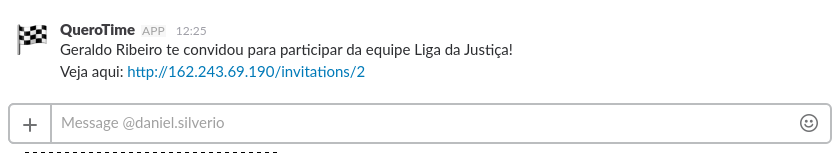
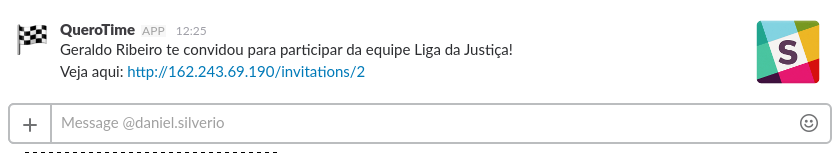
slide slack fix.

Changed region(s): [[0.8998, 0.1307, 0.9928, 0.549]]

diff --git a/public/slides/beige.html b/public/slides/beige.html
@@ -45,7 +45,7 @@
 </section><section id="como-montar" class="slide level2">
 <h1>Como montar?</h1>
 <ul>
-<li>O acesso é via Slack! <embed src="https://ms-vsts.gallerycdn.vsassets.io/extensions/ms-vsts/vss-services-slack/1.0.1/1474455147825/Microsoft.VisualStudio.Services.Icons.Default" /></li>
+<li>Autenticação via Slack</li>
 <li>Visualizar times criados</li>
 <li>Convidar interessados para o seu time <img src="./images/slack_invitation.png" alt="img" /></li>
 </ul>
@@ -82,7 +82,7 @@
 </ul>
 </section><section id="section" class="slide level2">
 <h1></h1>
-<p>AjudaEu agradece toda ajuda que teve.</p>
+<p>AjudaEu agradece toda ajuda que teve. Obrigado</p>
 </section><section id="bike" class="slide level2" data-background="./images/bike.jpg">
 <h1>Bike</h1>
 </section><section id="bonecos" class="slide level2" data-background="./images/bonecos.jpg">

diff --git a/public/slides/black.html b/public/slides/black.html
@@ -45,7 +45,7 @@
 </section><section id="como-montar" class="slide level2">
 <h1>Como montar?</h1>
 <ul>
-<li>O acesso é via Slack! <embed src="https://ms-vsts.gallerycdn.vsassets.io/extensions/ms-vsts/vss-services-slack/1.0.1/1474455147825/Microsoft.VisualStudio.Services.Icons.Default" /></li>
+<li>Autenticação via Slack</li>
 <li>Visualizar times criados</li>
 <li>Convidar interessados para o seu time <img src="./images/slack_invitation.png" alt="img" /></li>
 </ul>
@@ -82,7 +82,7 @@
 </ul>
 </section><section id="section" class="slide level2">
 <h1></h1>
-<p>AjudaEu agradece toda ajuda que teve.</p>
+<p>AjudaEu agradece toda ajuda que teve. Obrigado</p>
 </section><section id="bike" class="slide level2" data-background="./images/bike.jpg">
 <h1>Bike</h1>
 </section><section id="bonecos" class="slide level2" data-background="./images/bonecos.jpg">

diff --git a/public/slides/index.html b/public/slides/index.html
@@ -45,7 +45,7 @@
 </section><section id="como-montar" class="slide level2">
 <h1>Como montar?</h1>
 <ul>
-<li>O acesso é via Slack! <embed src="https://ms-vsts.gallerycdn.vsassets.io/extensions/ms-vsts/vss-services-slack/1.0.1/1474455147825/Microsoft.VisualStudio.Services.Icons.Default" /></li>
+<li>Autenticação via Slack</li>
 <li>Visualizar times criados</li>
 <li>Convidar interessados para o seu time <img src="./images/slack_invitation.png" alt="img" /></li>
 </ul>
@@ -82,7 +82,7 @@
 </ul>
 </section><section id="section" class="slide level2">
 <h1></h1>
-<p>AjudaEu agradece toda ajuda que teve.</p>
+<p>AjudaEu agradece toda ajuda que teve. Obrigado</p>
 </section><section id="bike" class="slide level2" data-background="./images/bike.jpg">
 <h1>Bike</h1>
 </section><section id="bonecos" class="slide level2" data-background="./images/bonecos.jpg">

diff --git a/public/slides/league.html b/public/slides/league.html
@@ -45,7 +45,7 @@
 </section><section id="como-montar" class="slide level2">
 <h1>Como montar?</h1>
 <ul>
-<li>O acesso é via Slack! <embed src="https://ms-vsts.gallerycdn.vsassets.io/extensions/ms-vsts/vss-services-slack/1.0.1/1474455147825/Microsoft.VisualStudio.Services.Icons.Default" /></li>
+<li>Autenticação via Slack</li>
 <li>Visualizar times criados</li>
 <li>Convidar interessados para o seu time <img src="./images/slack_invitation.png" alt="img" /></li>
 </ul>
@@ -82,7 +82,7 @@
 </ul>
 </section><section id="section" class="slide level2">
 <h1></h1>
-<p>AjudaEu agradece toda ajuda que teve.</p>
+<p>AjudaEu agradece toda ajuda que teve. Obrigado</p>
 </section><section id="bike" class="slide level2" data-background="./images/bike.jpg">
 <h1>Bike</h1>
 </section><section id="bonecos" class="slide level2" data-background="./images/bonecos.jpg">

diff --git a/public/slides/moon.html b/public/slides/moon.html
@@ -45,7 +45,7 @@
 </section><section id="como-montar" class="slide level2">
 <h1>Como montar?</h1>
 <ul>
-<li>O acesso é via Slack! <embed src="https://ms-vsts.gallerycdn.vsassets.io/extensions/ms-vsts/vss-services-slack/1.0.1/1474455147825/Microsoft.VisualStudio.Services.Icons.Default" /></li>
+<li>Autenticação via Slack</li>
 <li>Visualizar times criados</li>
 <li>Convidar interessados para o seu time <img src="./images/slack_invitation.png" alt="img" /></li>
 </ul>
@@ -82,7 +82,7 @@
 </ul>
 </section><section id="section" class="slide level2">
 <h1></h1>
-<p>AjudaEu agradece toda ajuda que teve.</p>
+<p>AjudaEu agradece toda ajuda que teve. Obrigado</p>
 </section><section id="bike" class="slide level2" data-background="./images/bike.jpg">
 <h1>Bike</h1>
 </section><section id="bonecos" class="slide level2" data-background="./images/bonecos.jpg">

diff --git a/public/slides/solarized.html b/public/slides/solarized.html
@@ -45,7 +45,7 @@
 </section><section id="como-montar" class="slide level2">
 <h1>Como montar?</h1>
 <ul>
-<li>O acesso é via Slack! <embed src="https://ms-vsts.gallerycdn.vsassets.io/extensions/ms-vsts/vss-services-slack/1.0.1/1474455147825/Microsoft.VisualStudio.Services.Icons.Default" /></li>
+<li>Autenticação via Slack</li>
 <li>Visualizar times criados</li>
 <li>Convidar interessados para o seu time <img src="./images/slack_invitation.png" alt="img" /></li>
 </ul>
@@ -82,7 +82,7 @@
 </ul>
 </section><section id="section" class="slide level2">
 <h1></h1>
-<p>AjudaEu agradece toda ajuda que teve.</p>
+<p>AjudaEu agradece toda ajuda que teve. Obrigado</p>
 </section><section id="bike" class="slide level2" data-background="./images/bike.jpg">
 <h1>Bike</h1>
 </section><section id="bonecos" class="slide level2" data-background="./images/bonecos.jpg">

diff --git a/public/slides/slides.md b/public/slides/slides.md
@@ -17,8 +17,7 @@ Sistema para auxiliar na comunicação de montar uma equipe e poder discutir ide
 
 ## Como montar?
 
-- O acesso é via Slack!
-![img](https://ms-vsts.gallerycdn.vsassets.io/extensions/ms-vsts/vss-services-slack/1.0.1/1474455147825/Microsoft.VisualStudio.Services.Icons.Default)
+- Autenticação via Slack
 - Visualizar times criados
 - Convidar interessados para o seu time
 ![img](./images/slack_invitation.png)
